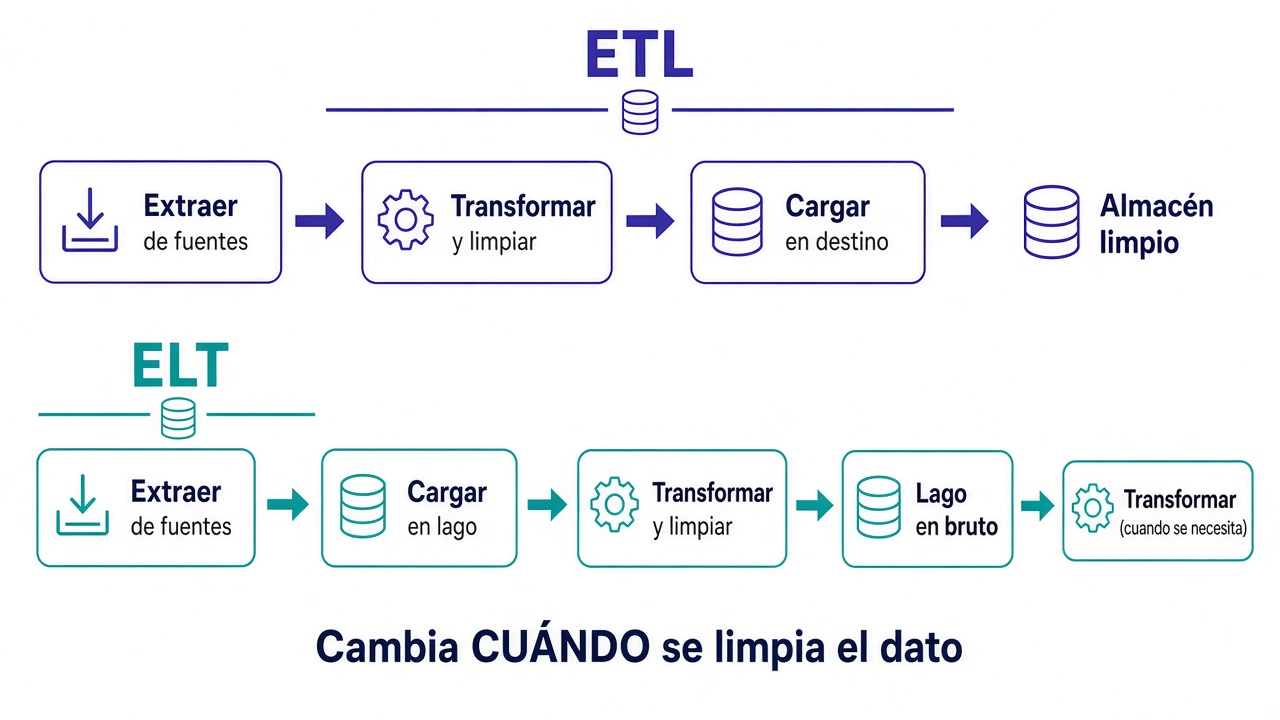
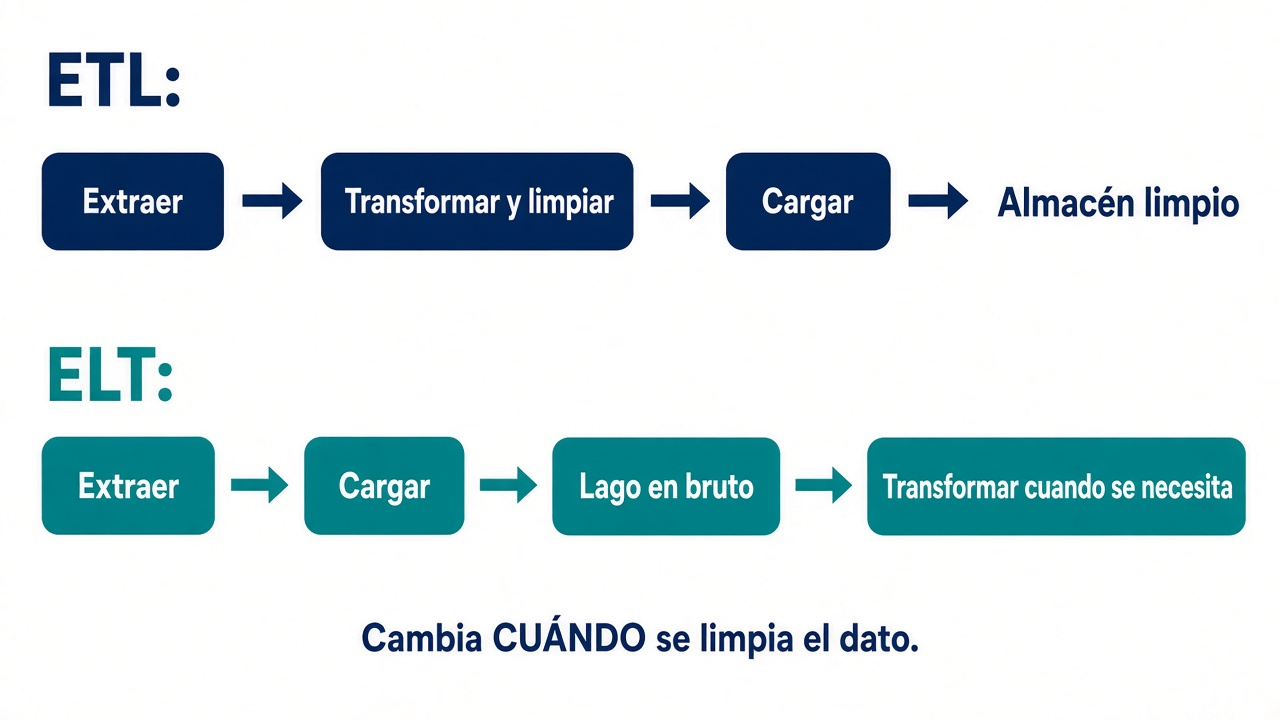
Corregir figuras, taller y consideraciones de ingesta para que no se contradigan.

diff --git a/docs/ut1/ingesta.md b/docs/ut1/ingesta.md
@@ -91,7 +91,7 @@ Un mismo **job** (trabajo programado: “a las 02:00, lanza esta tubería”) qu
 
 Las fuentes no hablan igual. Un canal llega como `web` y otro como `WEB`. Un número llega como texto `"10"`. Hay huecos.
 
-Dejar el dato **listo** para usarlo se llama **data wrangling** (manipulación o disputa de datos). No es un programa: es el oficio de pasar del bruto al dato que ya tiene sentido.
+Dejar el dato **listo** para usarlo se llama **data wrangling** (preparación o limpieza de datos). No es un programa: es el oficio de pasar del bruto al dato que ya tiene sentido.
 
 ### Pipeline iterativo
 
@@ -131,7 +131,7 @@ Dos reglas:
 
 Compruebas que el lote **trae lo que dice traer** (columnas, tipos). Si no, se **aparta**: un job “en verde” con filas cojas envenena el panel.
 
-La **carga inicial** (tres años de reservas) no es el job del martes (solo lo de ayer). Mezclarlas es un error caro.
+La **carga inicial** es un *snapshot*: una foto de todo (tres años de reservas). El job del martes es **incremental**: solo lo nuevo o lo que cambió. Mezclarlas es un error caro.
 
 Hay tres formas de iniciar el movimiento. No son tres productos.
 
@@ -156,12 +156,12 @@ Dejas formato y contenido que el destino entiende. En el hotel suele ser:
 - Quitar duplicados de `id_reserva`.
 - Cruzar reservas con cobros.
 - Agregar importe por hotel.
-- Inventar un identificador estable (`hotel-fecha`).
+- Generar un identificador estable (`hotel-fecha`).
 - Calcular un indicador (ocupación %).
 - Quedarte solo con las filas que el informe necesita.
 
-**Sí:** mejorar calidad, integrar, normalizar.  
-**No:** inventar noches que nadie picó, borrar el canal porque “estorbaba”, ni una regla que un día sí y otro no.
+**Sí:** mejorar calidad, integrar, normalizar, crear una clave que no existía en origen.  
+**No:** fabricar noches que nadie picó, borrar el canal porque “estorbaba”, ni una regla que un día sí y otro no.
 
 En continuo, una transformación pesada (cruzar veinte fuentes) **no** va en el mismo milisegundo que el sensor. A veces la T gorda espera al lote.
 
@@ -175,54 +175,25 @@ Cada destino tiene su vía rápida. Tres palancas que, si las ignoras, tiran una
 | --- | --- |
 | **Índices** (atajos de búsqueda, como el índice de un libro) | Reconstruirlos fila a fila en millones de reservas tira la carga |
 | **Partición** (guardar en “cajones”: por fecha o por hotel) | Si partes mal, el panel barre todo |
-| **Tamaño de la transacción** (cuántas filas confirmas de golpe) | Una de diez millones o diez mil de una fila: las dos mienten |
+| **Tamaño de la transacción** (cuántas filas confirmas de golpe) | Confirmar diez millones de golpe puede tumbar el destino; confirmar de una en una, eternizar la carga |
 
-Cien filas de práctica **no** demuestran la carga.
-
-Escribir “un fichero” no basta. El siguiente paso tiene que **partir** el archivo, comprimirlo y consultarlo sin arruinarte. El catálogo completo está en [1.7](formatos.md). Aquí solo la decisión de la **L**:
-
-- **CSV / JSON:** texto que un humano abre. JSONL es JSON **una reserva por línea** (se puede partir; un único array `[...]` enorme, no).
-- **[Avro](https://avro.apache.org/):** cada fila viaja con su **esquema** (de qué tipo es cada campo). Típico en colas: mañana añaden un campo y el consumidor no se rompe del todo.
-- **[Parquet](https://parquet.apache.org/):** formato **columnar** (guarda la columna `importe` junta). El informe de las 8 lee hotel e importe y **no** carga las doce columnas. Muy usado en lagos y en Spark.
-- **[ORC](https://orc.apache.org/):** parecido a Parquet; nació en el mundo Hive.
-- **[Feather / Arrow](https://arrow.apache.org/):** pensado para pasar tablas **rápido** entre procesos Python/R. No es el archivo de “guardar tres años”.
-- **[Snappy](https://google.github.io/snappy/)** (y gzip, zstd): **códecs** de compresión. Ocupan menos y viajan menos; cuestan CPU.
-
-| Destino de esta carga | Formato habitual | Por qué, en una frase |
-| --- | --- | --- |
-| Que lo abra un compañero | CSV / JSON | Se depura |
-| Cola de mensajes; mañana añaden un campo | Avro | Cada fila lleva su esquema |
-| Lago / informe de las 8 | Parquet | Lee hotel e importe, no las doce columnas |
-| El script de al lado, ahora | Feather | Rápido; no es archivo de años |
-| Tablas Hive | ORC (o Parquet si el equipo usa Spark) | Encaje con esa pila |
-| El programa de recepción | Ni Parquet ni ORC como almacén | Actualizar una fila es caro |
-
-Un JSON con un array enorme entre `[` y `]` **no se trocea**. Una reserva por línea, o un formato columnar, sí.
-
-El JSON del taller vale para **ver**. Si el cruce pesara mucho y el destino fuera el lago:
-
-```python
-cruce.to_parquet("web_cobrado.parquet")
-```
-
-Comprimir ocupa menos y viaja menos; cuesta CPU. En volumen suele ganar un códec **rápido** (por ejemplo Snappy).
-
-!!! tip "Antes de dar el procedimiento por cerrado"
-    ¿El destino **escribe** muchos registros o **lee** tres columnas? ¿Se puede **partir** el fichero? El detalle de cada formato, en [1.7](formatos.md).
+Cien filas de práctica **no** demuestran la carga. El **formato** de lo que escribes (CSV, JSON, Parquet…) es parte de esta L: lo vemos justo después del [Hola ETL](#hola-etl), cuando ya tienes un `cruce`. El catálogo completo está en [1.7](formatos.md).
 
 ## ELT
 
 **ELT** cambia las letras: extraer → **cargar** → transformar.
 
-Los datos se dejan primero en el lago o en un **almacén de datos** (*data warehouse*: base pensada para informes, no para picar reservas), **aún sin limpiar**. La transformación la hace después el destino: SQL, un notebook, o [**Apache Spark**](https://spark.apache.org/) (un motor que reparte el cálculo entre varios ordenadores; [**PySpark**](https://spark.apache.org/docs/latest/api/python/) es Spark usado desde Python).
+Los datos se dejan primero **aún sin limpiar**. El sitio típico es el [lago](almacenamiento.md). En la nube a veces es un almacén **elástico** ([Snowflake](https://www.snowflake.com/), BigQuery…), que sí puede tragar bruto y transformar después. El *data warehouse* clásico de [1.3](almacenamiento.md) —pasillos fijos, columnas acordadas— suele querer el dato **ya limpio**: ahí encaja ETL, no ELT.
+
+La transformación la hace después el destino: SQL, un notebook, o [**Apache Spark**](https://spark.apache.org/) (un motor que reparte el cálculo entre varios ordenadores; [**PySpark**](https://spark.apache.org/docs/latest/api/python/) es Spark usado desde Python).
 
 | | **ETL** | **ELT** |
 | --- | --- | --- |
 | Orden | Extraer → **transformar** → cargar | Extraer → **cargar** → transformar |
-| Dónde se limpia | Un motor en medio (script, [Pentaho](pentaho.md), [Talend](https://www.talend.com/)) | El destino (el almacén o el lago) |
-| Cuándo | El destino **no** debe tragar basura | El destino es elástico y hay **varios** consumidores del mismo bruto |
+| Dónde se limpia | Un motor en medio (script, [Pentaho](pentaho.md), [Talend](https://www.talend.com/)) | El lago o un almacén **elástico** en la nube |
+| Cuándo | El destino **no** debe tragar basura | El destino aguanta bruto y hay **varios** consumidores |
 | Ver el crudo | Más tarde | Antes |
-| Si gerencia cambia la pregunta | Retocas la T **antes** de recargar | A menudo una consulta nueva sobre lo ya cargado |
+| Si gerencia cambia la pregunta | Retocas la T **antes** de recargar | Consulta nueva **si** esas columnas ya estaban en el bruto |
 
 ELT no es “ETL al revés para quedar moderno”. Cambia **quién** trabaja y **cuándo** se ve el dato:
 
@@ -259,8 +230,6 @@ Son programas (muchos con pantalla) para diseñar el flujo sin escribirlo todo a
 | **[Oracle Data Integrator (ODI)](https://www.oracle.com/integration/data-integrator/)** | ETL del ecosistema Oracle | Nombre de catálogo |
 | **[MuleSoft](https://www.mulesoft.com/)** | Más bien integración de aplicaciones (APIs), no solo ficheros | Nombre de catálogo |
 
-Un *job* es un trabajo programado: “a las 02:00, lanza esta tubería”.
-
 Las empresas no eligen “solo Pentaho” o “solo Python”. Mezclan:
 
 - la **suite visual** para conectores y planificación;
@@ -274,21 +243,19 @@ Sin planificación y sin registro de errores, da igual la herramienta.
 
 ## Hola ETL
 
-En [Pentaho](pentaho.md) harás un cruce en **Spoon** (la pantalla de PDI). Aquí las **tres letras** se ven en código, con el hotel.
+Este taller enseña las **tres letras**, no pinta el panel de ocupación de las 8. El objetivo es más pequeño: reservas del canal `web` **con cobro**, y una etiqueta `hotel (web)`. En [1.8](pentaho.md) el mismo cruce se vuelve informe agregado por hotel y canal.
 
 Necesitas un cuaderno de Python:
 
 - **[Jupyter](https://jupyter.org/):** programa en tu PC que mezcla texto y código, celda a celda.
 - **[Google Colab](https://colab.research.google.com/):** lo mismo, pero en el navegador, sin instalar nada.
 
-**[pandas](https://pandas.pydata.org/)** es la librería de Python para tablas. Un `DataFrame` es una hoja: filas y columnas con nombre. **[NumPy](https://numpy.org/)** (`numpy`) genera números al azar para inventar el ejemplo.
+**[pandas](https://pandas.pydata.org/)** es la librería de Python para tablas. Un `DataFrame` es una hoja: filas y columnas con nombre. **[NumPy](https://numpy.org/)** (`numpy`) genera números al azar para fabricar el ejemplo.
 
-En [1.7](formatos.md) volverás a estos ficheros.
+En [1.7](formatos.md) generarás **otro** `reservas.csv` (más filas, campo `entrada`, **sin** cobros). Estos dos ficheros no se reutilizan allí.
 
 - `reservas.csv`: quién reservó, en qué hotel, por qué canal, noches e importe.
 - `cobros.csv`: qué reservas **ya** están cobradas y por qué medio. No todas las reservas tienen fila. Eso es real.
-
-Objetivo: reservas del canal `web` **con cobro**, y una etiqueta `hotel (web)`.
 
 - **E** = leer los dos ficheros.
 - **T** = filtrar, cruzar por `id_reserva` y crear la etiqueta. Un *join* (cruce) une filas que comparten una clave.
@@ -370,7 +337,43 @@ COPY (
 """)
 ```
 
-Compara en clase líneas de código, tiempo y si el JSON se abre. Más detalle de DuckDB y formatos: [1.7](formatos.md). En 1.8 verás el **mismo oficio** en Spoon: cambia la herramienta, no las letras.
+No compares los dos JSON como si fueran el mismo fichero:
+
+- pandas (`orient="records"`) escribe un **array** `[ {...}, {...} ]`.
+- DuckDB (`FORMAT JSON`) suele escribir **JSONL**: una reserva por línea.
+
+Para **verlos** en clase valen los dos. Para el lago, el formato de la L no es este JSON: es Parquet (siguiente apartado). En [1.8](pentaho.md) verás el **mismo cruce** en Spoon, pero el cliente pide un informe agregado, no este JSON.
+
+### La L: formato de la carga
+
+Escribir “un fichero” no basta. El siguiente paso tiene que **partir** el archivo, comprimirlo y consultarlo sin arruinarte. El catálogo completo está en [1.7](formatos.md). Aquí solo la decisión de la **L**, ahora que ya tienes un `cruce`:
+
+- **CSV / JSON:** texto que un humano abre. JSONL es JSON **una reserva por línea** (se puede partir; un único array `[...]` enorme, no).
+- **[Avro](https://avro.apache.org/):** cada fila viaja con su **esquema** (de qué tipo es cada campo). Típico en colas: mañana añaden un campo y el consumidor no se rompe del todo.
+- **[Parquet](https://parquet.apache.org/):** formato **columnar** (guarda la columna `importe` junta). El informe de las 8 lee hotel e importe y **no** carga las doce columnas. Muy usado en lagos y en Spark.
+- **[ORC](https://orc.apache.org/):** parecido a Parquet; nació en el mundo Hive.
+- **[Feather / Arrow](https://arrow.apache.org/):** pensado para pasar tablas **rápido** entre procesos Python/R. No es el archivo de “guardar tres años”.
+- **[Snappy](https://google.github.io/snappy/)** (y gzip, zstd): **códecs** de compresión. Ocupan menos y viajan menos; cuestan CPU.
+
+| Destino de esta carga | Formato habitual | Por qué, en una frase |
+| --- | --- | --- |
+| Que lo abra un compañero | CSV / JSON | Se depura |
+| Cola de mensajes; mañana añaden un campo | Avro | Cada fila lleva su esquema |
+| Lago / informe de las 8 | Parquet | Lee hotel e importe, no las doce columnas |
+| El script de al lado, ahora | Feather | Rápido; no es archivo de años |
+| Tablas Hive | ORC (o Parquet si el equipo usa Spark) | Encaje con esa pila |
+| El programa de recepción | Ni Parquet ni ORC como almacén | Actualizar una fila es caro |
+
+Si el cruce pesara y el destino fuera el lago:
+
+```python
+cruce.to_parquet("web_cobrado.parquet")
+```
+
+Comprimir ocupa menos y viaja menos; cuesta CPU. En volumen suele ganar un códec **rápido** (por ejemplo Snappy).
+
+!!! tip "Antes de dar el procedimiento por cerrado"
+    ¿El destino **escribe** muchos registros o **lee** tres columnas? ¿Se puede **partir** el fichero? El detalle de cada formato, en [1.7](formatos.md).
 
 ## La ingesta por dentro
 
@@ -404,7 +407,8 @@ Una **cola de mensajes** es un buzón intermedio. No es una base de datos de inf
 
 - Un **productor** deja el evento (la habitación se ocupó).
 - Un **consumidor** lo recoge cuando puede (el panel, un script).
-- Si el consumidor va lento, la cola **aguanta** el chaparrón. Eso es *contrapresión* (*back pressure*): no tiras el origen porque el destino no da abasto.
+- Si el consumidor va lento, la cola **aguanta** un rato: es un **búfer**.
+- Si además el sistema **frena al productor** para que no siga empujando, eso es *contrapresión* (*back pressure*). No son lo mismo: el búfer absorbe; la contrapresión pide que se afloje.
 
 En muchas colas clásicas, al recoger el mensaje **desaparece**. En sistemas repartidos en varios ordenadores (varios PCs colaborando) el orden entre canales no está garantizado: hay que contar con que un nodo falle.
 
@@ -433,7 +437,7 @@ El movimiento de datos entre orígenes y destinos puede ser:
 
 ### Arquitectura
 
-Si te basas en la arquitectura por capas, la ingesta es la de **abajo**: recoge lo que viene de fuentes distintas. Los datos se categorizan y priorizan para que las capas de arriba (almacén, proceso, panel) no traguen el caos.
+Si te basas en la arquitectura por capas, la ingesta es la de **abajo**: **lleva** el dato desde las fuentes; las fuentes no *son* la capa. El dibujo de esta página resume cuatro pisos. En [1.5](arquitectura.md) hay más (colección, consulta, seguridad, monitorización).
 
 ![La ingesta es la capa de abajo: el dato sube hacia el panel](../assets/ut1/capas-ingesta.png)
 
@@ -453,7 +457,7 @@ Las herramientas de ingesta para ecosistemas Big Data se agrupan así:
 - **[Apache Flume](https://flume.apache.org/):** tubería de **logs y eventos** hacia HDFS o HBase, en flujo. Encaja con clics o sensores, no con “toda la tabla de reservas”.
 - **[Apache NiFi](https://nifi.apache.org/):** pantalla con **cajas y flechas** (un grafo). Cargas de un origen, pasas por procesos y vuelcas a otro. Vale lote y flujo.
 - **[Logstash](https://www.elastic.co/logstash)** (Elastic): nació para meter logs en **[Elasticsearch](https://www.elastic.co/elasticsearch)** (un motor de búsqueda de documentos/texto, no una base de reservas). Hoy admite muchas entradas y salidas, también nube.
-- **[AWS Glue](https://aws.amazon.com/glue/):** ETL **gestionada** en Amazon: no instalas servidor; lo lanzas desde la consola. Descubre esquemas. Lo usan también **[Athena](https://aws.amazon.com/athena/)** (SQL sobre ficheros en S3) y otros servicios AWS.
+- **[AWS Glue](https://aws.amazon.com/glue/):** ETL **gestionada** en Amazon: no instalas servidor; lo lanzas desde la consola. Descubre esquemas. **[Athena](https://aws.amazon.com/athena/)** no es Glue: es SQL sobre ficheros en S3; usa el **catálogo** de Glue para saber qué tablas hay.
 
 Por otro lado hay sistemas de mensajería con funciones propias de ingesta **asíncrona**:
 
@@ -478,29 +482,58 @@ Finalmente, hay conectores que facilitan llevar **SaaS** (software que usas por 
 
 ## Consideraciones
 
-En un supuesto de aula o de examen, clava **estas** decisiones y justifícalas. No hace falta un cuestionario de treinta ítems.
+En un supuesto de aula o de examen, clava **estas** decisiones y justifícalas. Las preguntas de cada bloque son las que usa la [actividad 9](#actividades).
 
-1. **Origen y formato.** ¿Tabla, API, carpeta, sensor? ¿Hay que **cruzar** dos sistemas (reservas + cobros)? ¿Estructurado, JSON o una imagen del DNI?
-2. **Quién inicia.** Push, pull o poll.
-3. **Reloj / latencia.** ¿El dato que llega tarde sigue valiendo? El cierre de ayer sí; el semáforo de habitación libre, no.
-4. **ETL o ELT.** ¿El destino traga bruto? ¿Pierdes el original si transformas al vuelo?
-5. **Destino y [formato](formatos.md).** ¿Una carpeta “tonta” o un almacén con SQL? ¿Uno o varios destinos?
-6. **Calidad.** ¿Apartas el lote roto? ¿Sabes de dónde salió esta cifra? ¿Hay valores imposibles (`noches = -1`)?
-7. **Personas.** ¿El DNI se enmascara o **no entra**? ¿Quién ve el campo, y en qué estado?
-8. **Cambio.** Si el origen añade una columna, ¿te enteras? ¿Puedes reprocesar sin volver a pedir tres años al origen?
+### Origen y formato
 
-El martes el programa de reservas añade `motivo_cancelacion`. Tres preguntas:
+- ¿Cuál es el origen: PMS, pasarela, carpeta FTP, sensores, API de una OTA?
+- ¿Hay que **cruzar** dos sistemas (reservas + cobros)?
+- ¿Estructurado (tabla), JSON o una imagen del DNI?
+- ¿Qué volumen diario, y si abrís otro hotel?
+- ¿Pueden aparecer fuentes nuevas mañana?
 
-1. **¿Quién te avisa?** Si nadie, el job sigue “bien” y el campo nuevo se pierde.
-2. **¿Guardas historial o pitas encima?** Un *update* borra cómo estaba la reserva el lunes. Borrar e insertar, o versionar, dejan rastro.
-3. **¿Reprocesas?** Si gerencia cambia el indicador, a veces basta una consulta nueva sobre el bruto (ELT). A veces hay que **volver a ingerir**. Reusar lo ya cargado evita tragarte otra vez tres años de SQL.
+### Reloj / latencia
+
+- ¿Quién inicia: push, pull o poll?
+- ¿El dato que llega tarde sigue valiendo? El cierre de ayer sí; el semáforo de habitación libre, no.
+- ¿Lote, micro-lote o continuo?
+- ¿Síncrono (esperas confirmación) o asíncrono (sueltas y sigues)?
+- Si llega tarde, ¿hasta cuándo se considera válido?
+
+### Actualizaciones
+
+El martes el programa de reservas añade `motivo_cancelacion`:
+
+- **¿Quién te avisa?** Si nadie, el job sigue “bien” y el campo nuevo se pierde.
+- **¿Guardas historial o pitas encima?** Un *update* borra cómo estaba la reserva el lunes. Borrar e insertar, o versionar, dejan rastro.
+- **¿Reprocesas?** Si gerencia cambia el indicador, a veces basta una consulta nueva sobre el bruto (ELT). A veces hay que **volver a ingerir**. Reusar lo ya cargado evita tragarte otra vez tres años de SQL.
 
 Si transformaste al vuelo y tiraste el original, el cambio de pregunta te obliga a pedir otra extracción. Eso duele.
+
+### Transformaciones
+
+- ¿ETL o ELT? ¿El destino traga bruto (lago / almacén elástico) o exige limpio (warehouse clásico de [1.3](almacenamiento.md))?
+- ¿Hace falta transformar **al recoger**, o puede esperar al procesar?
+- En continuo, ¿una T pesada (ocupación %, cruce de veinte fuentes) cabe en el mismo milisegundo que el sensor?
+
+### Destino
+
+- ¿Una carpeta “tonta” o un almacén con SQL? ¿Uno o varios destinos?
+- ¿Mismo formato que el origen o [formato de la L](#la-l-formato-de-la-carga) (Parquet, Avro, JSONL…)?
+- ¿Cómo se va a consultar: por hotel, por fecha, al azar?
+
+### Calidad y personas
+
+- ¿Apartas el lote roto o lo cargas “en verde”?
+- ¿Sabes de dónde salió esta cifra (linaje)?
+- ¿Hay valores imposibles (`noches = -1`)?
+- ¿El DNI se enmascara o **no entra**?
+- ¿Quién ve el campo, y en qué estado (bruto, limpio, agregado)?
 
 !!! example "Tres supuestos del grupo hotelero"
     1. “A las 02:00, la tabla de reservas → el lago.” → lote *pull*, no una cola.  
     2. “El semáforo de habitación libre en recepción, en pocos segundos.” → flujo + cola.  
-    3. “Reservas web ya cobradas → fichero para gerencia.” → el [Hola ETL](#hola-etl) de esta página o el mismo flujo en Spoon.
+    3. “Reservas web ya cobradas → fichero para ver en clase.” → [Hola ETL](#hola-etl). El informe agregado por hotel y canal es el [taller 2 de Pentaho](pentaho.md).
 
 !!! success "Criterio b) en un examen"
     Origen + push/pull/poll + reloj + ETL o ELT + destino + formato de la carga + **por qué no** el de al lado. Un nombre de producto solo no puntúa.
@@ -518,9 +551,9 @@ No sustituye a Moodle. Comprueba que lo sostienes en voz alta.
 1. Gerencia quiere el panel de las 8. ¿Qué decides **primero**: la herramienta o la pregunta de negocio? Di las tres marchas atrás (destino → transformación → origen).
 2. Una cola solo guarda altas de reserva, sin limpiar ni cruzar. ¿Es un pipeline? ¿Es una ETL? ¿Por qué?
 3. El almacén de finanzas **no** admite filas sucias. El lago de ocupación **sí** guarda el bruto. ¿ETL, ELT o los dos? ¿Dónde duele si cambian el indicador?
-4. Con `reservas.csv` y `cobros.csv`: importe **cobrado** por hotel **solo** en canal `recepcion` (pandas y DuckDB). Cuenta también cuántas reservas de ese canal **aún no** tienen cobro.
-5. Misma transformación del punto 4, **tres cargas**: JSON (verlo), Parquet (lago) y CSV. Anota tamaños y di cuándo usarías cada una.
+4. Con `reservas.csv` y `cobros.csv`: importe **cobrado** por hotel **solo** en canal `recepcion` (pandas y DuckDB). Cuenta también cuántas reservas de ese canal **aún no** tienen cobro (pista: un *left join* o un anti-join; el Hola ETL usaba *inner*).
+5. Misma transformación del punto 4, **tres cargas**: JSON (verlo), Parquet (lago) y CSV. Anota tamaños y di cuándo usarías cada una. Recuerda: el JSON de pandas (array) no es el JSONL de DuckDB.
 6. Dos procedimientos en el mismo hotel: (a) sensores cada 30 s para el semáforo de recepción; (b) cierre de cobros a las 23:00 para finanzas. Para cada uno: quién inicia, reloj, ETL/ELT, destino y formato. No mezcles los dos en un solo job.
 7. El programa de reservas añade `motivo_cancelacion`. El job de las 02:00 sigue en verde. ¿Qué falló? ¿ETL o ELT te salva mejor un indicador nuevo de cancelaciones?
 8. Misma transformación del punto 4, pero ahora **agrega**: por hotel, número de reservas cobradas y suma de `cobrado`. pandas y DuckDB. El resultado, un CSV. ¿Esa agregación la harías al recoger o al procesar? ¿Por qué?
-9. La cadena lanza una app de fidelización y quiere reacción en redes las primeras 48 h. Del apartado [Consideraciones](#consideraciones), responde al menos tres ítems de origen, tres de reloj y tres de personas/calidad. Nombra la **familia**, no hace falta un producto.
+9. La cadena lanza una app de fidelización y quiere reacción en redes las primeras 48 h. Del apartado [Consideraciones](#consideraciones), responde **al menos tres preguntas** de [Origen y formato](#origen-y-formato), **tres** de [Reloj / latencia](#reloj-latencia) y **tres** de [Calidad y personas](#calidad-y-personas). Nombra la **familia** de ingesta, no hace falta un producto.

diff --git a/docs/ut1/pentaho.md b/docs/ut1/pentaho.md
@@ -169,7 +169,7 @@ Parámetros útiles (también en Kitchen): `/level:Basic` (o `Error`, `Debug`, `
 
 Cliente: *“Importe cobrado y número de reservas **por hotel y canal**. Las que aún no tienen cobro no entran.”*
 
-Es el mismo oficio que el [Hola ETL](ingesta.md#hola-etl) de ingesta (reservas + cobros), ahora en Spoon.
+Es el mismo **cruce** que el [Hola ETL](ingesta.md#hola-etl) de ingesta (reservas + cobros). En Spoon el cliente pide un informe **agregado** por hotel y canal, no el JSON del taller.
 
 | Fichero | Separador | Rol |
 | --- | --- | --- |
